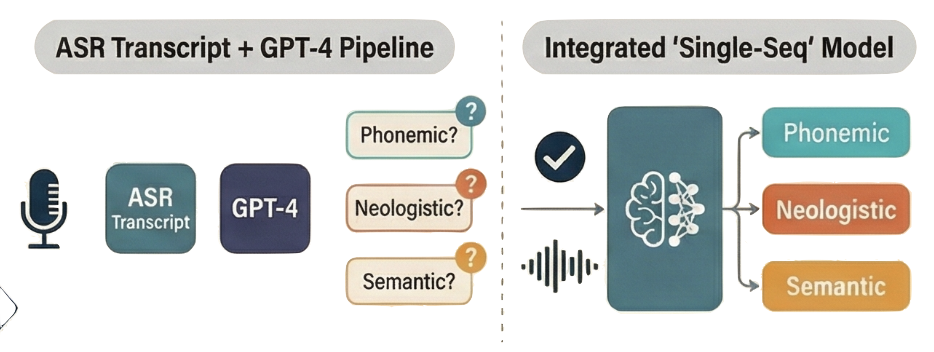
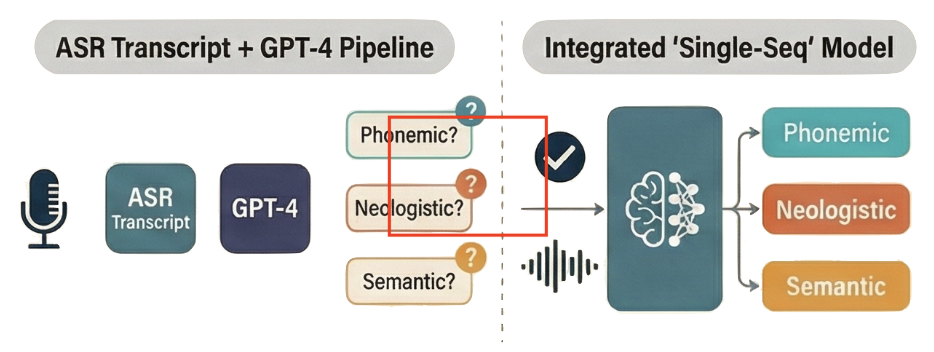
photo fix

Changed region(s): [[0.4036, 0.3125, 0.5899, 0.6875]]

diff --git a/index.html b/index.html
@@ -74,10 +74,10 @@
           </tr> 
           
           <tr>
-            <td style="padding:20px 10px 20px 20px;width:5%;vertical-align:middle">
-              <img src="images/papers_images/BB_paper.png" alt="Beyond Binary Paper" style="width:100%;height:auto;display:block;">
+            <td style="padding:20px 10px 20px 20px;width:120px;vertical-align:middle">
+              <img src="images/papers_images/BB_paper.png" alt="Beyond Binary Paper" style="width:100px;height:auto;display:block;">
             </td>
-            <td style="padding:20px 20px 20px 10px;width:95%;vertical-align:middle">
+            <td style="padding:20px 20px 20px 10px;vertical-align:middle">
               <a href="https://www.isca-archive.org/interspeech_2024/perez24_interspeech.html"><papertitle>Beyond Binary: Multiclass Paraphasia Detection with Generative Pretrained Transformers and End-to-End Models</papertitle></a>
               <br>
               <strong>Matthew Perez</strong>,
@@ -96,10 +96,10 @@
           </tr> 
           
           <tr>
-            <td style="padding:20px 10px 20px 20px;width:5%;vertical-align:middle">
-              <img src="images/papers_images/pronscribe.png" alt="PronScribe Paper" style="width:100%;height:auto;display:block;">
+            <td style="padding:20px 10px 20px 20px;width:120px;vertical-align:middle">
+              <img src="images/papers_images/pronscribe.png" alt="PronScribe Paper" style="width:100px;height:auto;display:block;">
             </td>
-            <td style="padding:20px 20px 20px 10px;width:95%;vertical-align:middle">
+            <td style="padding:20px 20px 20px 10px;vertical-align:middle">
               <a href="https://www.isca-archive.org/interspeech_2023/yu23_interspeech.pdf"><papertitle>PronScribe: Highly Accurate Multimodal Phonemic Transcription From Speech and Text</papertitle></a>
               <br>
               Yang Yu,
